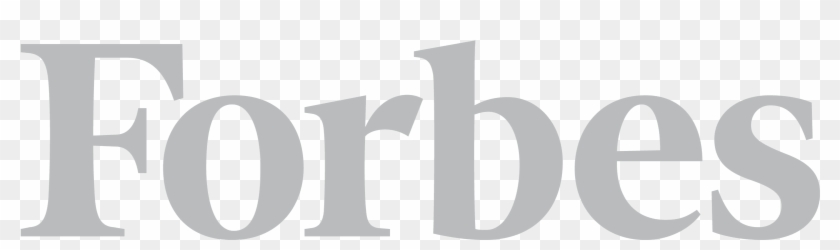
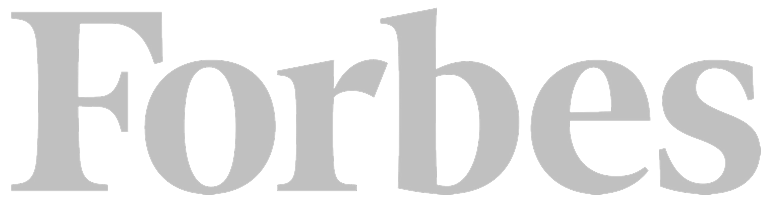
fixed and privacy policy page, still needs content

diff --git a/index.html b/index.html
@@ -9,6 +9,14 @@
     <link rel="stylesheet preload prefetch" as="style" crossorigin="anonymous" href="https://fonts.googleapis.com/css2?family=Roboto:wght@300;400;500;700&display=swap" />
     <link rel="stylesheet" href="/css/mdb.min.css" />
     <link rel="stylesheet" href="/css/style.css" />
+	<link rel="apple-touch-icon" sizes="180x180" href="/apple-touch-icon.png">
+	<link rel="icon" type="image/png" sizes="32x32" href="/favicon-32x32.png">
+	<link rel="icon" type="image/png" sizes="16x16" href="/favicon-16x16.png">
+	<link rel="manifest" href="/site.webmanifest">
+	<link rel="mask-icon" href="/safari-pinned-tab.svg" color="#5bbad5">
+	<meta name="msapplication-TileColor" content="#00aba9">
+	<meta name="theme-color" content="#ffffff">
+	<link rel="icon" href="/img/logo.jpg" type="image/jpg" />
     
 <script async src="https://www.googletagmanager.com/gtag/js?id=G-Q1QCKKXBD5"></script>
 <script src="https://unpkg.com/typewriter-effect@latest/dist/core.js"></script>
@@ -868,7 +876,7 @@ src="https://www.facebook.com/tr?id=1527806380949420&ev=PageView&noscript=1"
 	                  <div class="col-xl-3 col-lg-4 col-6 text-center">
 		              <img
                         class="w-100 px-4 py-3 logo-filter img-fluid"
-                        src="/img/forbes.webp"
+                        src="/img/forbes.png"
                         alt="Forbes"
                       />
                       </div>
@@ -899,7 +907,7 @@ src="https://www.facebook.com/tr?id=1527806380949420&ev=PageView&noscript=1"
 	                  <div class="col-xl-3 col-lg-4 col-6 text-center">
 		              <img
                         class="w-100 px-4 py-3 logo-filter img-fluid"
-                        src="/img/gartner.webp"
+                        src="/img/gartnerb.png"
                         alt="Gartner"
                       />
                       </div>
@@ -953,7 +961,7 @@ src="https://www.facebook.com/tr?id=1527806380949420&ev=PageView&noscript=1"
 		    </div>
 		    
 		    <div class="col-6 text-white py-4" style="text-align: right;">
-		      <p class="pt-0 mt-0 mb-0 pb-0 text-muted"><a href="#" class="footer-link" target="_blank">Privacy Policy</a></p>
+		      <p class="pt-0 mt-0 mb-0 pb-0 text-muted"><a href="/privacy-policy.html" class="footer-link" target="_blank">Privacy Policy</a></p>
 		      <p class="pt-0 mt-0 mb-0 pb-0 text-muted">
             <a href="#" class="footer-link" class="btn btn-primary" 
               data-mdb-toggle="modal"
